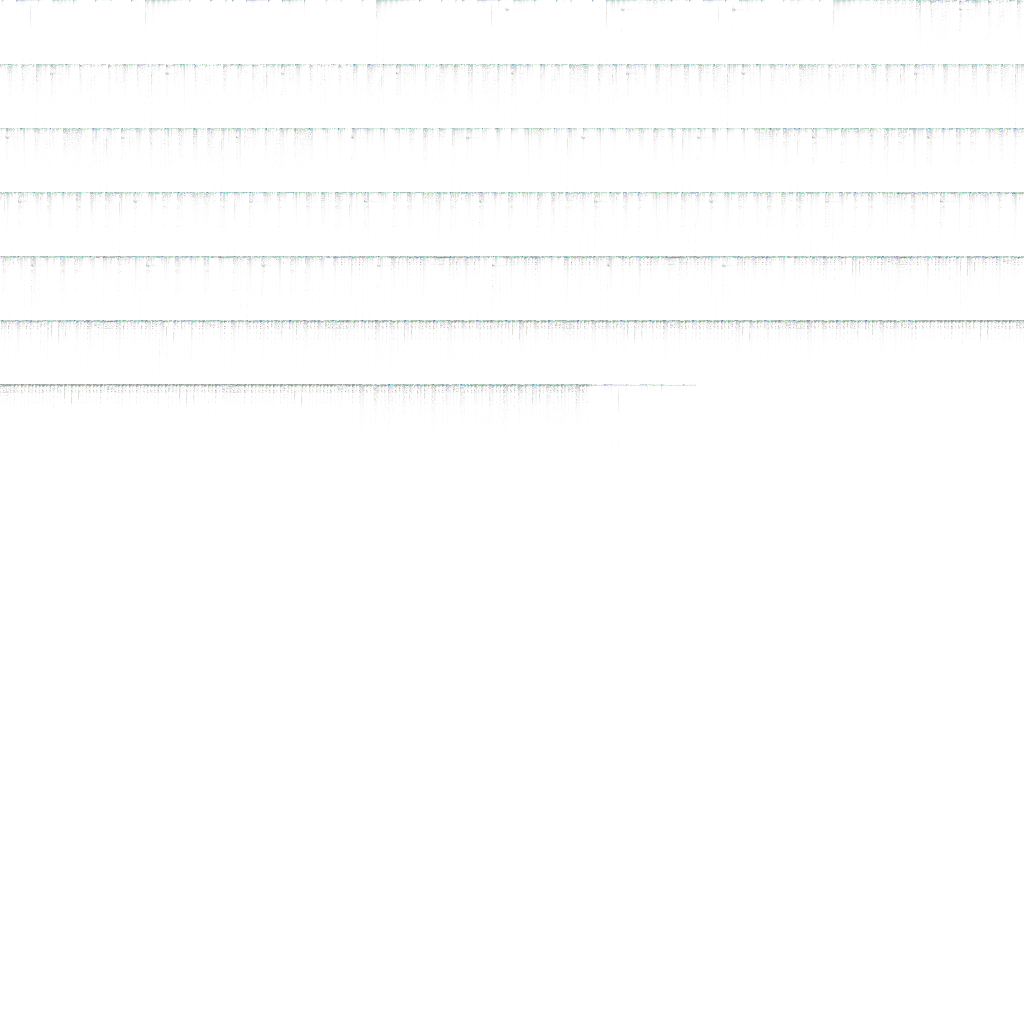
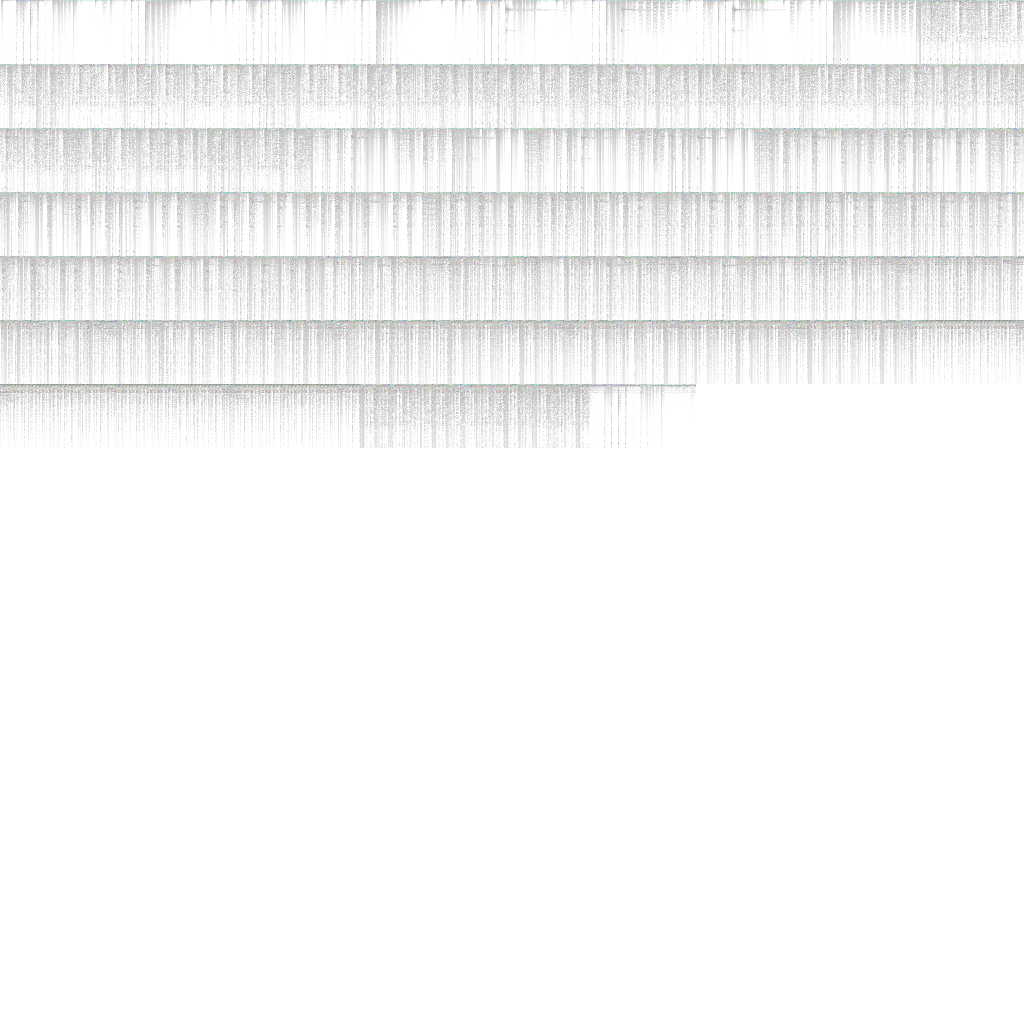
improve fft

diff --git a/Tools/AudiosFFT/run.py b/Tools/AudiosFFT/run.py
@@ -1,7 +1,7 @@
-import sys
-
-from pylab import*
+from sys import argv
+from math import ceil, log10
 from scipy.io import wavfile
+from scipy.fftpack import fft
 from PIL import Image, ImageDraw
 
 FPS = 30
@@ -27,8 +27,10 @@ def FFT(s1):
 	else:
 		p[1:len(p) -1] = p[1:len(p) - 1] * 2
 
-	ret = [abs(10*log10(x+1e-5)) for x in p]
-	return ret
+	return p
+	
+def plot(x):
+	return abs(10 * log10(x ** 2 + 1e-15))
 
 def gen(fn):
 	sampFreq, snd = wavfile.read(fn)
@@ -48,7 +50,8 @@ def gen(fn):
 	rangeStep = sampFreq / FPS
 	rangeLimits = int(soundLength * FPS);
 
-	limit = 0.0;
+	limit_max = 0.0;
+	limit_min = 255;
 
 	for i in xrange(rangeLimits):
 		start_index = rangeStep * i
@@ -65,9 +68,11 @@ def gen(fn):
 		fft_ret = FFT(fft_data)
 		fft_ret_len = len(fft_ret)
 
-		limit = max(limit, fft_ret[fft_ret_len - 1])
+		limit_max = max(limit_max, plot(fft_ret[0]))
+		limit_min = min(limit_min, plot(fft_ret[0]))
 
-	print "INFO: Max limit =", limit
+	print "INFO: Min limit =", limit_min
+	print "INFO: Max limit =", limit_max
 
 	for i in xrange(rangeLimits):
 		start_index = rangeStep * i
@@ -89,17 +94,19 @@ def gen(fn):
 
 		for j in xrange(FFT_UNIFORM):
 			index = j * 4;
-			v1 = int(255 * (1 - fft_ret[index] / limit))
-			v2 = int(255 * (1 - fft_ret[index + 1] / limit))
-			v3 = int(255 * (1 - fft_ret[index + 2] / limit))
-			v4 = int(255 * (1 - fft_ret[index + 3] / limit))
+
+			v1 = int(255 * (1 - (plot(fft_ret[index]) ) / limit_max))
+			v2 = int(255 * (1 - (plot(fft_ret[index + 1]) ) / limit_max))
+			v3 = int(255 * (1 - (plot(fft_ret[index + 2]) ) / limit_max))
+			v4 = int(255 * (1 - (plot(fft_ret[index + 3]) ) / limit_max))
+
 			draw.point((px, py + j), fill=(v1,v2,v3,v4))
 
 	img.save(fn+".fft.png", 'png')
 
 if __name__ == "__main__":
-	if len(sys.argv) == 2:
-		fn = sys.argv[1]
+	if len(argv) == 2:
+		fn = argv[1]
 		gen(fn)
 		print 'DONE...'
 	else:
